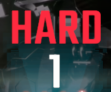
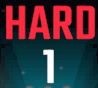
完善共享返回与子任务执行流程

diff --git a/agent/StageSelect.py b/agent/StageSelect.py
@@ -5,38 +5,44 @@ from maa.custom_action import CustomAction
 from maa.agent.agent_server import AgentServer
 import UtilTools
 
+
+def select_stage(context: Context, target: str) -> bool:
+    print("[StageSelect] stage_target:", target)
+
+    if not target:
+        print("[StageSelect] Error: 未指定 stage_target 参数")
+        return False
+
+    image = UtilTools.get_image(context)
+    result = UtilTools.get_result(context, image, target=target)
+    selection_result = list(result["all_results"])
+
+    while selection_result:
+        if context.tasker.running:
+            item = selection_result.pop(0)
+            print("当前备选:", item["box"])
+            UtilTools.click_roi(context, item["box"])
+            time.sleep(0.6)
+            image = UtilTools.get_image(context)
+            result = UtilTools.get_result(context, image, target=target + "_OCR")
+
+            if result["found"]:
+                print("匹配成功:", item)
+                return True
+            else:
+                print("匹配失败:", item)
+        else:
+            context.tasker.post_stop().wait()
+            return False
+
+    print("[StageSelect] 所有候选项均匹配失败")
+    return False
+
+
 @AgentServer.custom_action("StageSelect")
 class StageSelect(CustomAction):
     def run(self, context: Context, argv: CustomAction.RunArg) -> bool:
             params = json.loads(argv.custom_action_param)
             target = params.get("stage_target")
-            print("[StageSelect] stage_target:",target)
-            
-            if not target:
-                print("[StageSelect] Error: 未指定 stage_target 参数")
-              
-            image=UtilTools.get_image(context)
-            result=UtilTools.get_result(context,image,target=target)
-            selection_result = list(result["all_results"])
-
-            while selection_result:
-                if context.tasker.running:
-                    item = selection_result.pop(0) 
-                    print("当前备选:",item["box"])
-                    UtilTools.click_roi(context,item["box"])
-                    time.sleep(0.6)
-                    image=UtilTools.get_image(context)
-                    result=UtilTools.get_result(context,image,target=target + "_OCR")
-                    
-                    if result["found"]:
-                        print("匹配成功:",item)
-                        return True
-                    else:
-                        print("匹配失败:",item)
-                else:
-                    context.tasker.post_stop().wait()
-                    return False
-            
-            print("[StageSelect] 所有候选项均匹配失败")
-            return False
+            return select_stage(context, target)
                         

diff --git a/agent/RunTask.py b/agent/RunTask.py
@@ -1,0 +1,34 @@
+import json
+
+from maa.agent.agent_server import AgentServer
+from maa.context import Context
+from maa.custom_action import CustomAction
+
+
+@AgentServer.custom_action("运行子任务")
+class RunTask(CustomAction):
+    def run(self, context: Context, argv: CustomAction.RunArg) -> bool:
+        try:
+            params = json.loads(argv.custom_action_param or "{}")
+        except (ValueError, TypeError):
+            return False
+        if not isinstance(params, dict):
+            return False
+        entry = params.get("entry")
+        if not entry:
+            print("MGA_TASK_FAILED: [运行子任务] 未配置 entry")
+            return False
+
+        pipeline_override = params.get("pipeline_override", {})
+        if not isinstance(pipeline_override, dict):
+            print("MGA_TASK_FAILED: [运行子任务] pipeline_override 必须是对象")
+            return False
+
+        print(f"[运行子任务] 开始执行: {entry}")
+        result = context.run_task(entry, pipeline_override=pipeline_override)
+        if result is None:
+            print(f"MGA_TASK_FAILED: [运行子任务] 子任务执行失败: {entry}")
+            return False
+
+        print(f"[运行子任务] 子任务执行完成: {entry}")
+        return True

diff --git a/agent/ReturnHome.py b/agent/ReturnHome.py
@@ -1,0 +1,17 @@
+from maa.agent.agent_server import AgentServer
+from maa.custom_action import CustomAction
+from maa.context import Context
+
+
+@AgentServer.custom_action("强制返回主页")
+class ReturnHome(CustomAction):
+    def run(self, context: Context, argv: CustomAction.RunArg) -> bool:
+        try:
+            result = context.run_task("返回主画面入口")
+            if result is None:
+                print("MGA_TASK_FAILED: [返回主画面] 返回流程失败")
+                return False
+            return context.run_task("结果检测") is not None
+        except Exception as exc:
+            print(f"MGA_TASK_FAILED: [返回主画面] {exc}")
+            return False

diff --git a/agent/start_agent.py b/agent/start_agent.py
@@ -40,6 +40,8 @@ def run_agent_logic(socket_id):
         from maa.toolkit import Toolkit
         import StageSelect
         import GP
+        import ReturnHome
+        import RunTask
         
     except ImportError as e:
         print(f"[MGA Error] Failed to import dependencies: {e}")
